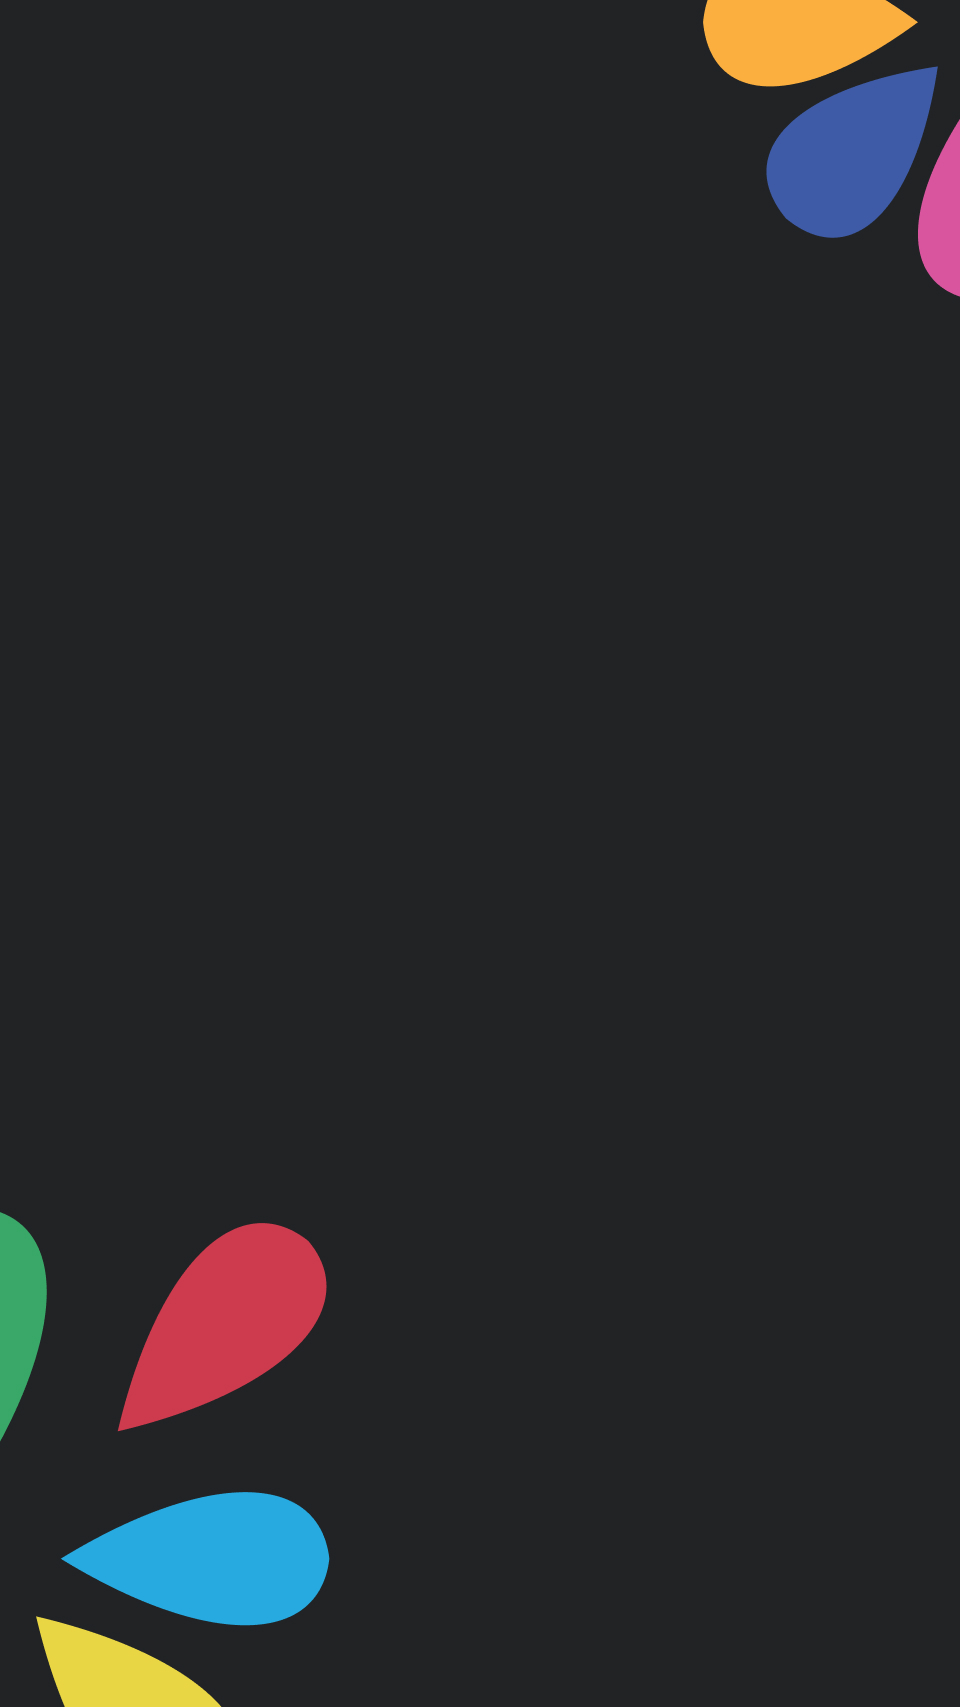
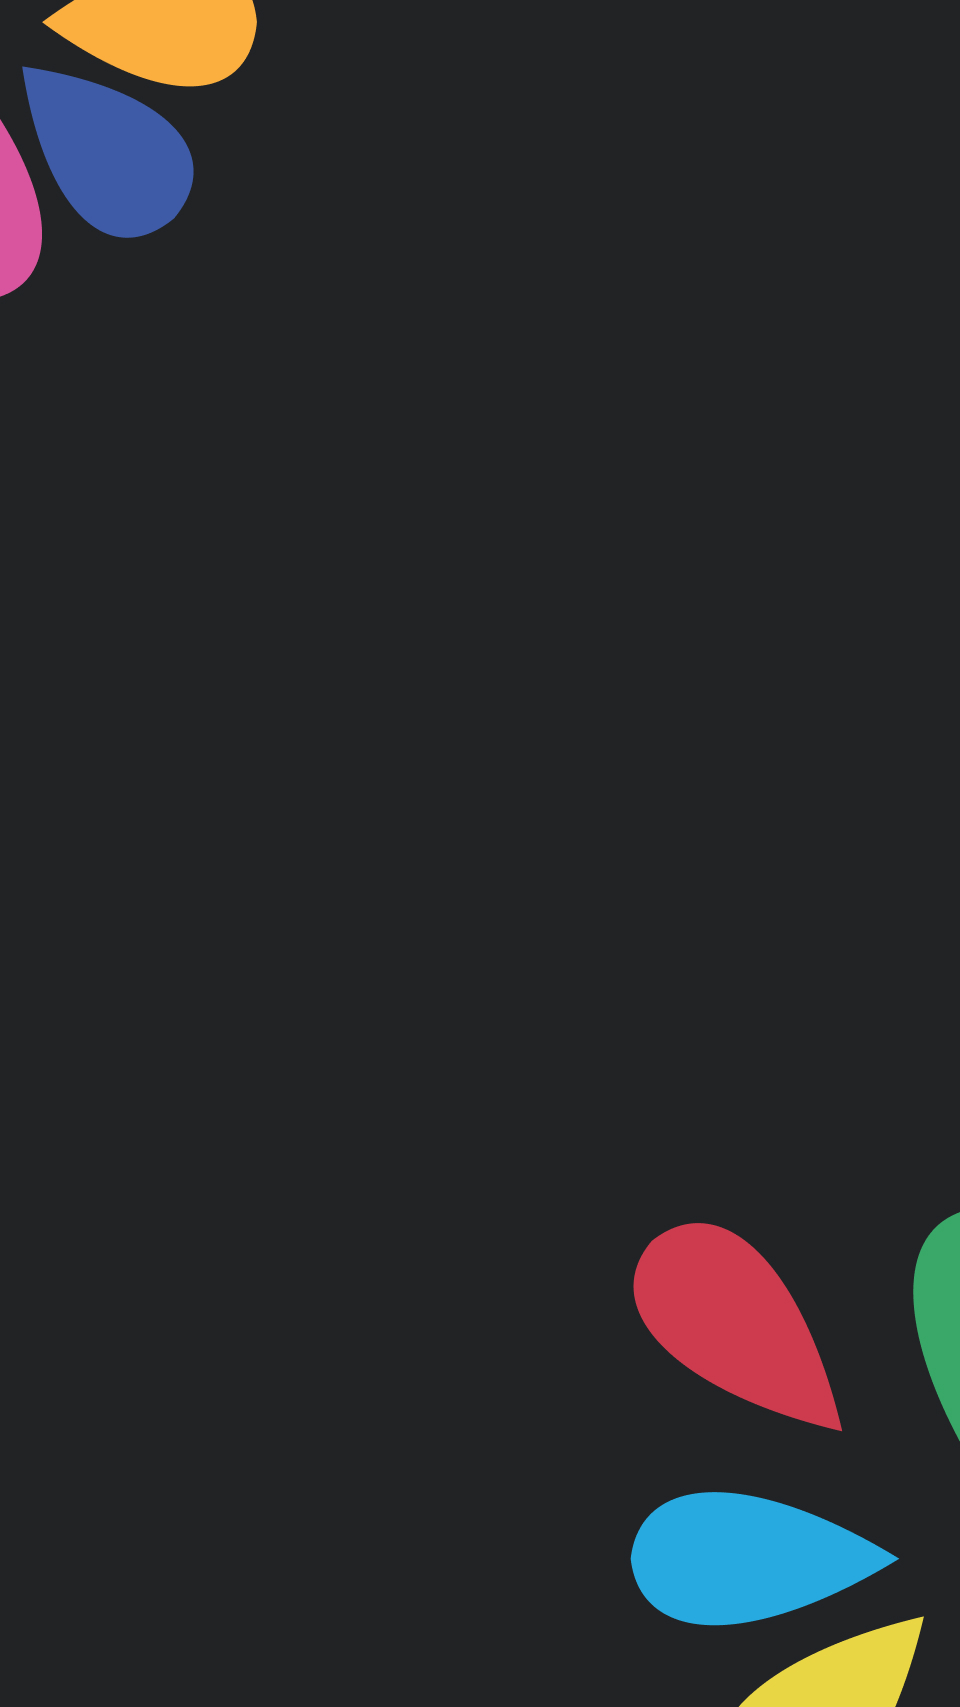
#8 ROG-g14: RFCT: libs cleanup, print dimensions ommited, jpgs renamed

diff --git a/lib/src/ui/login_screen.dart b/lib/src/ui/login_screen.dart
@@ -32,7 +32,6 @@ class LoginScreenState extends State<LoginScreen> {
   Widget build(BuildContext context) {
     final double deviceWidth = MediaQuery.of(context).size.width;
     final double deviceHeight = MediaQuery.of(context).size.height;
-    print("dimensions: ${deviceHeight}, ${deviceWidth}");
     bloc = LoginBlocProvider.of(context);
     bool notNull(Object o) => o != null;
 
@@ -57,33 +56,37 @@ class LoginScreenState extends State<LoginScreen> {
     // TODO --** Scale everything relatively to devices width and height **--
     return Container(
       decoration: BoxDecoration(
-        image: DecorationImage(
-          image: AssetImage("images/login_pixel2_960_mirr.jpg"),
-          fit: BoxFit.cover,
+          image: DecorationImage(
+            image: AssetImage("images/login_pixel2_960.jpg"),
+            fit: BoxFit.cover,
+          ),
         ),
-      ),
-      child: Scaffold( // TODO: using Material messes up scrolling
-        backgroundColor: Colors.transparent,
-        body: Container(
-          margin: EdgeInsets.fromLTRB(deviceWidth * 0.1, 0.0, deviceWidth * 0.1, 0.0),
-          child: SingleChildScrollView(physics: BouncingScrollPhysics(), // no glow on the end
-              child: Column(
-              children: <Widget>[
-                Container(height: deviceHeight * 0.2),
-                logo(context),
-                Container(height: deviceHeight * 0.01),
-                Container(
-                  height: 3,
-                  child: StreamBuilder(
-                      stream: bloc.loading,
-                      builder: (context, snapshot) {
-                        return (snapshot.data == true ?  progressIndicator() :  Container(/*EMPTY*/));
-                      }
-                  ),
-                ),
-                Container(height: deviceHeight * 0.05),
-                xnameField(bloc),
-                passwordField(bloc),
+        child: Scaffold(
+          // TODO: using Material messes up scrolling
+          backgroundColor: Colors.transparent,
+          body: Container(
+            margin: EdgeInsets.fromLTRB(
+                deviceWidth * 0.1, 0.0, deviceWidth * 0.1, 0.0),
+            child: SingleChildScrollView(
+                physics: BouncingScrollPhysics(), // no glow on the end
+                child: Column(
+                  children: <Widget>[
+                    Container(height: deviceHeight * 0.2),
+                    logo(context),
+                    Container(height: deviceHeight * 0.01),
+                    Container(
+                      height: 3,
+                      child: StreamBuilder(
+                          stream: bloc.loading,
+                          builder: (context, snapshot) {
+                            return (snapshot.data == true
+                                ? progressIndicator()
+                                : Container(/*EMPTY*/));
+                          }),
+                    ),
+                    Container(height: deviceHeight * 0.05),
+                    xnameField(bloc),
+                    passwordField(bloc),
                 Container(height: deviceHeight * 0.05),
                 exceptionNotifier(bloc),
                 Container(height: deviceHeight * 0.05),

diff --git a/lib/src/ui/scheduleScreen/schedule_screen.dart b/lib/src/ui/scheduleScreen/schedule_screen.dart
@@ -22,7 +22,7 @@ class ScheduleScreen extends StatefulWidget {
 
 class ScheduleScreenState extends State<ScheduleScreen> {
 
-  static const String _BGRND_IMG = "images/schedule_pixel2_960_mirr.jpg";
+  static const String _BGRND_IMG = "images/schedule_pixel2_960.jpg";
   ScheduleBloc bloc;
   final Repository repository = Repository.getInstance();
   final _log = Logger('ScheduleScreen');
